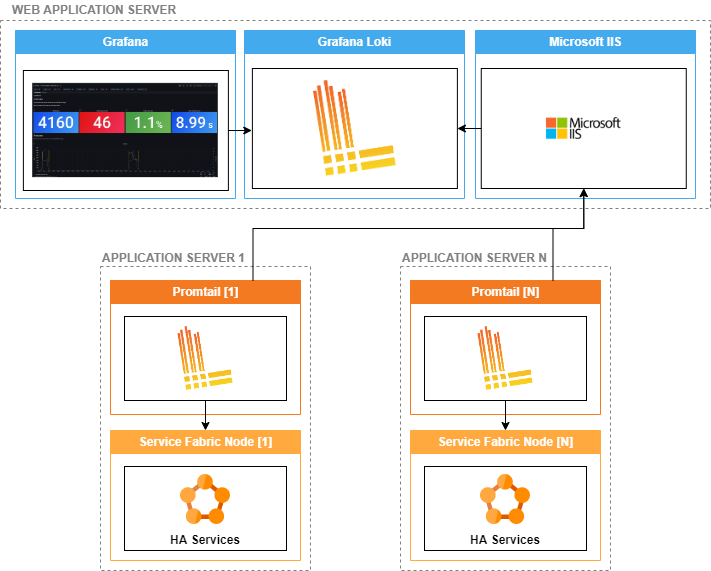
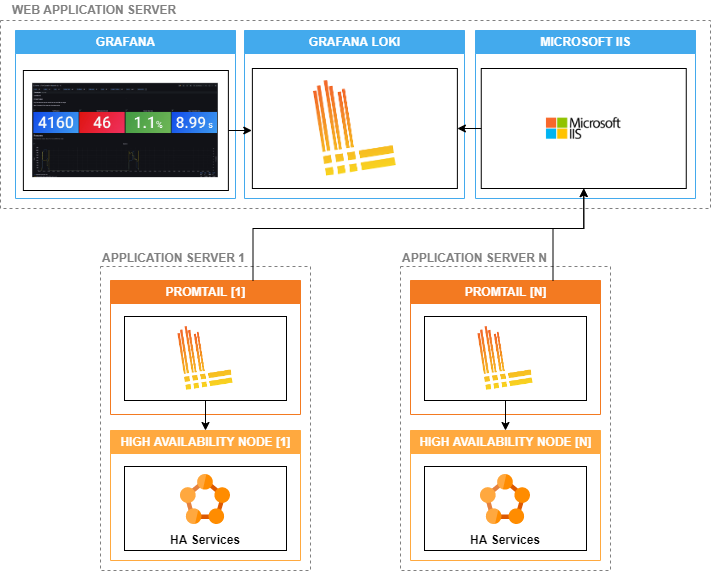
Improved instructions regarding SSL and certificates. Modified Loki and promtail installation and configuration instructions. Corrected Grafana Platform Architecture diagram.

diff --git a/content/en/docs/getting-started/on-premise/add-observability-to-innovation/Grafana/prerequisites.md b/content/en/docs/getting-started/on-premise/add-observability-to-innovation/Grafana/prerequisites.md
@@ -49,14 +49,6 @@ Grafana supports the latest versions of the following browsers:
 Always enable JavaScript in your browser. Running Grafana without JavaScript enabled in the browser is not supported.
 {{% / alert %}}
 
-## Additional Application Server Requirements
-
-### Security Requirements
-
-#### Installation User
-
-A domain user which is a member of the Local Administrators group on all Application Servers must be available to perform the installation.
-
 ## Additional Web Application Server Requirements
 
 ### Security Requirements
@@ -72,43 +64,72 @@ The observability platform requires a range of [firewall ports to be opened][Por
 #### Certificate Requirements
 
 {{% alert title="Note" %}}
-For production systems, it is recommended that X.509 SSL wildcard certificates are obtained from a Certificate Authority and used for installation. For non-production systems, self-signed certificates may be used.
+For production systems, it is recommended that X.509 SSL certificates are obtained from a Certificate Authority and used for installation. For non-production systems, self-signed certificates may be used. Details on how to create a self-signed certificate can be found at {{< ahref "Cortex.GettingStarted.OnPremise.AddObservabilityToInnovation.Grafana.Advanced.CreateSelfSignedCertificates" "Create Self-Signed Certificates">}}.
 {{% / alert %}}
 
-An X.509 SSL wildcard certificate should be used to:
+An X.509 SSL certificate (standard, wildcard or self-signed) should be used to secure communication between:
 
-* Secure communication between Promtail on the Application Servers and the reverse proxy configured for Grafana Loki on the Web Application Server.
-* Secure communication between Grafana end users and the Grafana Web Application on the Web Application Server.
+* Promtail on the Application Servers and the reverse proxy configured for Grafana Loki on the Web Application Server.
+* Grafana end users and the Grafana Web Application on the Web Application Server.
 
-The certificate can be obtained from a Certificate Authority, such as [Let’s Encrypt][], and must meet the following requirements:
+The wildcard certificate used for installing Innovation can be used if it is available in the .PEM file format, otherwise a new certificate can be obtained from a Certificate Authority, such as [Let’s Encrypt][], and must meet the following requirements:
 
-* Subject field must be in a wildcard format, pertaining to the domain of the Application Servers (e.g. `CN=*.domain.com`).
+* Subject field must be in one of the following formats, depending on the certificate type:
+  * Standard certificates must use the standard format (e.g. `CN=host.domain.com`).
+  * Wildcard certificates must use the wildcard format, pertaining to the domain of the Web Application Server (e.g. `CN=*.domain.com`).
 * Subject alternative names must include any additional host names that should be able to be used to access the Grafana Web Application.
-* Certificate file must be in a .PFX with a known password.
+* Certificate file must be in a .PFX file format, with a known password.
 * Certificate file must also be available in a .PEM file format.
 * Certificate file must contain the full chain of certificates.
 * Certificate file must include the private key.
 
 The files should be placed in a known location on the Web Application Server. This location will be required when [configuring Grafana to use HTTPS][].
 
-IIS requires an X.509 SSL certificate to be installed on the Web Application Server. The certificate must have the following property configured:
-
-* Subject Alternative Names (SAN): At minimum, the FQDN of the Server. It can also include NetBIOS Name, IP address, localhost, 127.0.0.1
-
-If the user tries navigating to an address not in the SAN list, they will receive a certificate error.
-
-Wildcard certificates and self-signed certificates can also be used. However, self-signed certificates are not recommended for production instances. Details on how to create a self-signed certificate can be found at [Create Self-Signed Certificates][].
-
-More information about importing the certificate is given during installation.
+More information about importing the certificate is given during [installation][].
 
 #### TLS Requirements
 
-A set of non-compulsory security measures is recommended to be applied to Web Application Servers to prevent attacks that exploit known industry security vulnerabilities. This includes disabling all versions of SSL and TLS apart from TLS 1.2. And disabling all cipher suites apart from the following:
+A set of non-compulsory security measures is recommended to be applied to the Web Application Server to prevent attacks that exploit known industry security vulnerabilities. This includes disabling all versions of SSL and TLS apart from TLS 1.2, and disabling all cipher suites apart from the following:
 
 * TLS_ECDHE_RSA_WITH_AES_256_GCM_SHA384
 * TLS_ECDHE_RSA_WITH_AES_128_GCM_SHA256
 
-See [SSL Best Practices][] for a full list of the security changes which will be applied. The `Cortex.Innovation.Install.SSLBestPractises.ps1` script is provided during installation to apply these security changes to the Web Application Server.
+See [SSL Best Practices][] for a full list of the recommended security changes to be applied.
+
+##### Apply Recommended Security Measures
+
+{{% alert type="warning" title="Warning" %}}Disabling specific TLS versions or specific Cipher Suites can have impact on other applications as well as their communication capabilities with third party systems and services. All parties communicating together must support a shared protocol version and cipher suite, otherwise they will not be able to establish a secure communication link between each other.{{% /alert %}}
+
+Apply the settings by following these instructions:
+
+1. Copy from one of the application servers the `Cortex.Innovation.Install.SSLBestPractises.ps1` file extracted during the [Extract Installation Artefacts][] step into a suitable location on the Web Application Server.
+1. Open a Windows PowerShell (x64) window as administrator.
+1. Change the location to the folder where the `Cortex.Innovation.Install.SSLBestPractises.ps1` file was copied to using the following command, modifying the path as necessary:
+
+    ```powershell
+    cd "C:\Install"
+    ```
+
+1. Run the `Cortex.Innovation.Install.SSLBestPractises.ps1` script using the following command:
+
+    ```powershell
+    .\Cortex.Innovation.Install.SSLBestPractises.ps1
+    ```
+
+1. To use all the recommended settings click `Apply all` to the first prompt.
+
+    To selectively apply each setting select `Choose which to apply`. Each change will then be prompted with a Yes/No confirmation before applying.
+1. Restart the machine when the script asks.
+
+## Additional Application Server Requirements
+
+These requirements apply to each of the Application Servers.
+
+### Security Requirements
+
+#### Installation User
+
+A domain user which is a member of the Local Administrators group on all Application Servers must be available to perform the installation.
 
 ## Next Steps?
 
@@ -117,14 +138,16 @@ See [SSL Best Practices][] for a full list of the security changes which will be
 [2016 (x64)]: {{< url "Microsoft.Downloads.Windows.Server2016" >}}
 [2019 (x64)]: {{< url "Microsoft.Downloads.Windows.Server2019" >}}
 [Architecture]: {{< url "Cortex.GettingStarted.OnPremise.AddObservabilityToInnovation.Grafana.Architecture" >}}
+[configuring Grafana to use HTTPS]: {{< url "Cortex.GettingStarted.OnPremise.AddObservabilityToInnovation.Grafana.InstallGrafana.ConfigureHTTPS" >}}
 [Create Self-Signed Certificates]: {{< url "Cortex.GettingStarted.OnPremise.AddObservabilityToInnovation.Grafana.Advanced.CreateSelfSignedCertificates" >}}
+[Extract Installation Artefacts]:  {{< url "Cortex.GettingStarted.OnPremise.InstallInnovationOnly.MultipleServerWithHA.ExtractInstallationArtefacts" >}}
 [Grafana 8.5.4]: {{< url "Grafana.SelfManaged.Downloads.GrafanaWebApp.Windows" >}}
 [Grafana Loki 2.5.0]: {{< url "Grafana.SelfManaged.Downloads.GrafanaLoki.MainDoc" >}}
 [Install Grafana]: {{< url "Cortex.GettingStarted.OnPremise.AddObservabilityToInnovation.Grafana.InstallGrafana.MainDoc" >}}
 [Install IIS Basic Authentication]: {{< url "Cortex.GettingStarted.OnPremise.AddObservabilityToInnovation.Grafana.InstallLoki.InstallIISBasicAuthentication" >}}]
+[installation]: {{< url "Cortex.GettingStarted.OnPremise.AddObservabilityToInnovation.Grafana.InstallLoki.InstallCertificate" >}}
 [Let’s Encrypt]: {{< url "LetsEncrypt.MainDoc" >}}
 [Promtail 2.5.0]:  {{< url "Grafana.SelfManaged.Downloads.GrafanaLoki.MainDoc" >}}
 [SSL Best Practices]: {{< url "Cortex.GettingStarted.OnPremise.AddObservabilityToInnovation.Grafana.Advanced.SSLBestPractices" >}}
 [URL Rewrite module 2.1]: {{< url "IIS.Downloads.UrlRewrite-2_1" >}}
 [Port Requirements]: {{< url "Cortex.GettingStarted.OnPremise.AddObservabilityToInnovation.Grafana.Advanced.PortRequirements" >}}
-[configuring Grafana to use HTTPS]: {{< url "Cortex.GettingStarted.OnPremise.AddObservabilityToInnovation.Grafana.InstallGrafana.ConfigureHTTPS" >}}

diff --git a/content/en/docs/getting-started/on-premise/add-observability-to-innovation/Grafana/install-promtail/configure-promtail.md b/content/en/docs/getting-started/on-premise/add-observability-to-innovation/Grafana/install-promtail/configure-promtail.md
@@ -11,7 +11,25 @@ This guide describes how to configure Promtail on the Application Server(s).
 
 {{% alert type="note" title="Note" %}}These steps must be performed for every Promtail installation in the cluster.{{% /alert %}}
 
+## Install Certificate
+
+If a self-signed certificate was obtained in the [prerequisites][], the CA certificate used to create this certificate must be imported on each Application Server. Otherwise, Promtail will not be able to establish communication with Grafana Loki.
+
+To import the CA certificate:
+
+1. Copy the `cortexCA.pfx` CA certificate created during the [root CA certificate generation][Generate The Root CA Certificate] steps into a suitable location on the Application Server.
+1. Double click on the `cortexCA.pfx` file to import the certificate into the Windows Certificate Store.
+1. Select `Local Machine` then click `Next`.
+1. Click `Next`.
+1. Enter the Export Password which the certificate was generated with then click `Next`.
+1. Select `Place all certificates in the following store`.
+1. Click `Browse…`.
+1. Select `Trusted Root Certification Authorities`, click `OK` then click `Next`.
+1. Click `Finish`.
+
 ## Configure Promtail
+
+### Set Client URL for Grafana Loki
 
 1. Open the `promtail-local-config.yaml` configuration file, which is located in the folder alongside the `promtail-windows-amd64.exe` file.
 1. Set the Grafana Loki `URL` in the `clients` section.
@@ -26,8 +44,26 @@ This guide describes how to configure Promtail on the Application Server(s).
 | loki reverse proxy port | The port of the Grafana Loki reverse proxy configured during [Add a New Website][] steps. Usually 2100. |
 
    A correct URL should be similar to `https://username:password@hostaddress:2100/loki/api/v1/push`.
+1. Save the file.
 
-## Start Promtail
+### Set the positions.yaml File Path
+
+1. Open the `promtail-local-config.yaml` configuration file, which is located in the folder alongside the `promtail-windows-amd64.exe` file.
+1. Set the `filename` in the `positions` section to the location where you want the `positions.yaml` file to be created on Promtail startup.
+1. Create all the folders of the path specified in the previous step.
+1. Save the file.
+
+{{% alert title="Note" %}}
+If the specified path to the folder for the `positions.yaml` file doesn't exists, the file will not get created on Promtail startup.
+{{% /alert %}}
+
+### Set the Path to the Cortex API Gateway Service Log Files
+
+1. Open the `promtail-local-config.yaml` configuration file, which is located in the folder alongside the `promtail-windows-amd64.exe` file.
+1. Set the `__path__` in the `static_configs` > `targets` > `labels` section to the path of the `Logs` folder specified in the `appSettings.json` file during installation of the Cortex API Gateway Service, e.g. `"C:/ProgramData/Cortex/Cortex API Gateway Service/Logs/*.json"`.
+1. Save the file.
+
+### Start Promtail
 
 1. Run Windows PowerShell as Administrator.
 1. Change the location to the folder where the `promtail-windows-amd64.exe` file is located.
@@ -39,4 +75,6 @@ This guide describes how to configure Promtail on the Application Server(s).
 
 [Add a New Website]: {{< url "Cortex.GettingStarted.OnPremise.AddObservabilityToInnovation.Grafana.InstallLoki.AddANewWebsite" >}}
 [Create Loki User]: {{< url "Cortex.GettingStarted.OnPremise.AddObservabilityToInnovation.Grafana.InstallLoki.CreateLokiUser" >}}
+[Generate The Root CA Certificate]: {{< url "Cortex.GettingStarted.OnPremise.AddObservabilityToInnovation.Grafana.Advanced.GenerateTheRootCaCertificate" >}}
+[prerequisites]: {{< url "Cortex.GettingStarted.OnPremise.AddObservabilityToInnovation.Grafana.WebAppCertificateRequirements" >}}
 [Setup Grafana]: {{< url "Cortex.GettingStarted.OnPremise.AddObservabilityToInnovation.Grafana.SetupGrafana" >}}

diff --git a/content/en/docs/getting-started/on-premise/add-observability-to-innovation/Grafana/install-promtail/install-promtail.md b/content/en/docs/getting-started/on-premise/add-observability-to-innovation/Grafana/install-promtail/install-promtail.md
@@ -12,13 +12,9 @@ This guide describes how to install Promtail on the Application Server(s). Pleas
 ## Install Promtail
 
 1. Download [Promtail 2.5.0 (promtail-windows-amd64.exe.zip)][].
-1. Extract the archive content to a suitable location.
-1. Navigate to the observability repository in [GitHub][Download Promtail Yaml].
-1. Click on the `promtail-local-config.yaml` file.
-1. Copy the contents and save locally as `promtail-local-config.yaml` in the same location as the previously extracted `promtail-windows-amd64.exe`.
-1. Using the browser back button, go back up a level to the file list.
-1. Download the [Promtail Install.zip][] archive and extract its content alongside the previously extracted `promtail-windows-amd64.exe`.
-This archive contains [NSSM][] - the Non-Sucking Service Manager program and PowerShell scripts to help manage Promtail as a service.
+1. Extract the archive content to a suitable location, e.g. `C:\Loki`.
+1. Download the [Promtail Install.zip][] archive and extract its contents alongside the previously extracted Grafana Loki `promtail-windows-amd64.exe`.
+This archive contains the `promtail-local-config.yaml` configuration file, [NSSM][] (the Non-Sucking Service Manager program) and PowerShell scripts to help manage Promtail as a Windows service.
 1. Run Windows PowerShell as Administrator
 1. Change the location to where all the files were extracted to.
 1. Execute the `.\Install-Promtail.ps1` command to install the downloaded `promtail-windows-amd64.exe` as a service.
@@ -28,7 +24,6 @@ This archive contains [NSSM][] - the Non-Sucking Service Manager program and Pow
 1. [Configure Promtail][]
 
 [Configure Promtail]: {{< url "Cortex.GettingStarted.OnPremise.AddObservabilityToInnovation.Grafana.InstallPromtail.ConfigurePromtail" >}}
-[Download Promtail Yaml]: {{< url "GitHub.Cortex.Observability.PromtailYaml" >}}
 [NSSM]: {{< url "NSSM.MainDoc" >}}
 [Prerequisites]: {{< url "Cortex.GettingStarted.OnPremise.AddObservabilityToInnovation.Grafana.Prerequisites" >}}
 [Promtail 2.5.0 (promtail-windows-amd64.exe.zip)]:  {{< url "Grafana.SelfManaged.Downloads.GrafanaLoki.MainDoc" >}}

diff --git a/content/en/docs/getting-started/on-premise/add-observability-to-innovation/Grafana/install-loki/install-loki.md b/content/en/docs/getting-started/on-premise/add-observability-to-innovation/Grafana/install-loki/install-loki.md
@@ -12,13 +12,10 @@ This guide describes how to install Grafana Loki on the Web Application Server. 
 ## Install Grafana Loki
 
 1. Download the [Grafana Loki 2.5.0 (loki-windows-amd64.exe.zip)][]
-1. Extract the archive content to a suitable location.
-1. Navigate to the observability repository in [GitHub][Download Loki Yaml].
-1. Click on the `loki-local-config.yaml` file.
-1. Copy the contents and save locally as `loki-local-config.yaml` in the same location as the previously extracted Grafana Loki `loki-windows-amd64.exe`.
+1. Extract the archive content to a suitable location, e.g. `C:\Loki`.
 1. Download the [Grafana Loki Install.zip][] archive and extract its contents alongside the previously extracted Grafana Loki `loki-windows-amd64.exe`.
-This archive contains [NSSM][] - the Non-Sucking Service Manager program and PowerShell scripts to help manage Grafana Loki as a Windows service.
-1. Run Windows PowerShell as Administrator
+This archive contains the `loki-local-config.yaml` configuration file, [NSSM][] (the Non-Sucking Service Manager program) and PowerShell scripts to help manage Grafana Loki as a Windows service.
+1. Run Windows PowerShell as Administrator.
 1. Change the location to where all the files were extracted to.
 1. Execute the `.\Install-Loki.ps1` command to install the downloaded Grafana Loki `loki-windows-amd64.exe` as a service.
 1. Execute the `.\Start-Loki.ps1` command to start the Grafana Loki service.
@@ -28,7 +25,6 @@ This archive contains [NSSM][] - the Non-Sucking Service Manager program and Pow
 1. [Configure Loki][]
 
 [Configure Loki]: {{< url "Cortex.GettingStarted.OnPremise.AddObservabilityToInnovation.Grafana.InstallLoki.ConfigureLoki" >}}
-[Download Loki Yaml]: {{< url "GitHub.Cortex.Observability.LokiYaml" >}}
 [Grafana Loki 2.5.0 (loki-windows-amd64.exe.zip)]: {{< url "Grafana.SelfManaged.Downloads.GrafanaLoki.MainDoc" >}}
 [Grafana Loki Install.zip]: {{< url "GitHub.Cortex.Observability.LokiInstallZip" >}}
 [NSSM]: {{< url "NSSM.MainDoc" >}}

diff --git a/content/en/docs/getting-started/on-premise/add-observability-to-innovation/Grafana/install-loki/configure-loki.md b/content/en/docs/getting-started/on-premise/add-observability-to-innovation/Grafana/install-loki/configure-loki.md
@@ -11,6 +11,19 @@ This guide describes how to configure Grafana Loki on the Web Application Server
 
 {{% alert type="note" title="Note" %}}For security reasons, Grafana Loki should be run behind an encrypted and authenticated reverse proxy as it does not provide these features by itself.{{% /alert %}}
 
+## Install Certificate
+
+IIS requires the X.509 SSL certificate, obtained in the [prerequisites][], to be installed on the Web Application Server.
+
+You can import the certificate by right clicking the certificate file, selecting `Install Certificate` and following the wizard. When prompted, ensure you import it into the `Local Machine` store and not `Current User`.
+
+To verify the certificate is imported:
+
+1. Click the Windows button (`Start`)
+2. Type `certlm.msc` and press `Enter` to open the Certificate Manager dialog
+3. Expand `Personal` and select `Certificates`
+4. You should see your certificate in this store
+
 ## Setup Reverse Proxy with IIS
 
 All of the steps must be carried out on the Web Application Server.
@@ -90,7 +103,7 @@ To set up a reverse proxy, carry out the following configuration.
 
 1. [Install Promtail][]
 
-[Certificate Requirements]: {{< url "Cortex.GettingStarted.OnPremise.AddObservabilityToInnovation.Grafana.CertificateRequirements" >}}
 [Install Promtail]: {{< url "Cortex.GettingStarted.OnPremise.AddObservabilityToInnovation.Grafana.InstallPromtail.MainDoc" >}}
+[prerequisites]: {{< url "Cortex.GettingStarted.OnPremise.AddObservabilityToInnovation.Grafana.WebAppCertificateRequirements" >}}
 [Software Requirements]: {{< url "Cortex.GettingStarted.OnPremise.AddObservabilityToInnovation.Grafana.SoftwareRequirements" >}}
 [URL Rewrite module 2.1]: {{< url "IIS.Downloads.UrlRewrite-2_1" >}}

diff --git a/content/en/docs/getting-started/on-premise/add-observability-to-innovation/Grafana/advanced/self-signed-certificates.md b/content/en/docs/getting-started/on-premise/add-observability-to-innovation/Grafana/advanced/self-signed-certificates.md
@@ -31,13 +31,13 @@ Self-signed certificates should be generated using OpenSSL which is bundled in t
 
 ## Generate the Root CA Certificate
 
-1. Create the Root CA private key by running the following command:
+1. Create the root CA private key by running the following command:
 
     ```powershell
     openssl genrsa -out cortexCA.key 4096
     ```
 
-1. Generate the Root CA certificate signed with the private key:
+1. Generate the root CA certificate signed with the private key:
     1. Copy the following text into a text editor:
 
         ```shell
@@ -211,7 +211,7 @@ Self-signed certificates should be generated using OpenSSL which is bundled in t
         ```
 
     1. Press `Enter` for everything except the Common Name. For this enter `Cortex`.
-    1. Sign the request with a previously generated Root CA by running the following command:
+    1. Sign the request with a previously generated root CA by running the following command:
 
         ```powershell
         openssl x509 -req -sha256 -in cortex.req -CA cortexCA.pem -CAkey cortexCA.key -CAcreateserial -out cortex.pem -days 3650 -extensions v3_req -extfile san.cnf

diff --git a/content/en/docs/getting-started/on-premise/add-observability-to-innovation/Grafana/install-grafana/configure-grafana.md b/content/en/docs/getting-started/on-premise/add-observability-to-innovation/Grafana/install-grafana/configure-grafana.md
@@ -41,6 +41,7 @@ By default Grafana allows access over the unsecure HTTP protocol. This needs to 
     cert_key = C:\certificates\certificate.key
     ```
 
+1. Save the file.
 1. Open the Services app.
 1. Restart the Grafana service.
 
@@ -61,4 +62,4 @@ It is important to verify that Grafana is only accessible through HTTPS.
 1. [Install Grafana Loki][]
 
 [Install Grafana Loki]: {{< url "Cortex.GettingStarted.OnPremise.AddObservabilityToInnovation.Grafana.InstallLoki.MainDoc" >}}
-[Certificate Requirements]: {{< url "Cortex.GettingStarted.OnPremise.AddObservabilityToInnovation.Grafana.CertificateRequirements" >}}
+[Certificate Requirements]: {{< url "Cortex.GettingStarted.OnPremise.AddObservabilityToInnovation.Grafana.WebAppCertificateRequirements" >}}
